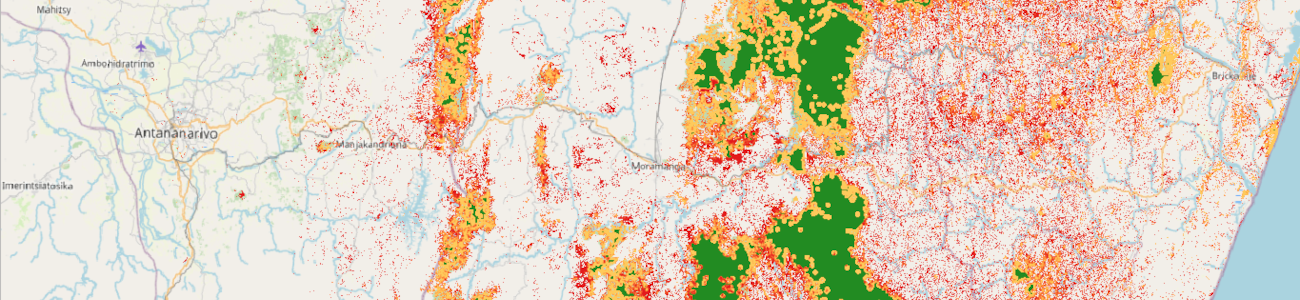
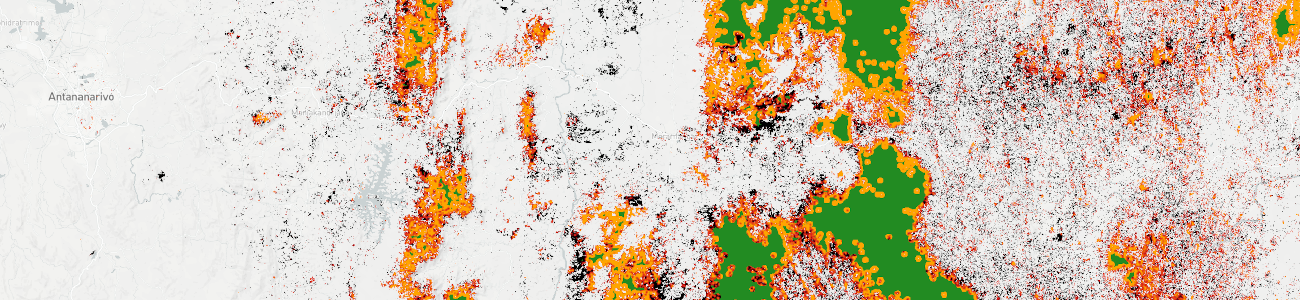
New QGis style and image

diff --git a/Qgis/riskmap_style_qgis.qml b/Qgis/riskmap_style_qgis.qml
@@ -1,0 +1,113 @@
+<!DOCTYPE qgis PUBLIC 'http://mrcc.com/qgis.dtd' 'SYSTEM'>
+<qgis maxScale="0" minScale="1e+08" styleCategories="AllStyleCategories" hasScaleBasedVisibilityFlag="0" version="3.22.7-Białowieża">
+  <flags>
+    <Identifiable>1</Identifiable>
+    <Removable>1</Removable>
+    <Searchable>1</Searchable>
+    <Private>0</Private>
+  </flags>
+  <temporal mode="0" fetchMode="0" enabled="0">
+    <fixedRange>
+      <start></start>
+      <end></end>
+    </fixedRange>
+  </temporal>
+  <customproperties>
+    <Option type="Map">
+      <Option type="QString" value="false" name="WMSBackgroundLayer"/>
+      <Option type="QString" value="false" name="WMSPublishDataSourceUrl"/>
+      <Option type="QString" value="0" name="embeddedWidgets/count"/>
+      <Option type="QString" value="Value" name="identify/format"/>
+    </Option>
+  </customproperties>
+  <pipe-data-defined-properties>
+    <Option type="Map">
+      <Option type="QString" value="" name="name"/>
+      <Option name="properties"/>
+      <Option type="QString" value="collection" name="type"/>
+    </Option>
+  </pipe-data-defined-properties>
+  <pipe>
+    <provider>
+      <resampling zoomedOutResamplingMethod="nearestNeighbour" enabled="false" zoomedInResamplingMethod="nearestNeighbour" maxOversampling="2"/>
+    </provider>
+    <rasterrenderer classificationMax="30" nodataColor="" type="singlebandpseudocolor" band="1" alphaBand="-1" opacity="1" classificationMin="0">
+      <rasterTransparency/>
+      <minMaxOrigin>
+        <limits>None</limits>
+        <extent>WholeRaster</extent>
+        <statAccuracy>Estimated</statAccuracy>
+        <cumulativeCutLower>0.02</cumulativeCutLower>
+        <cumulativeCutUpper>0.98</cumulativeCutUpper>
+        <stdDevFactor>2</stdDevFactor>
+      </minMaxOrigin>
+      <rastershader>
+        <colorrampshader minimumValue="0" maximumValue="30" classificationMode="2" labelPrecision="0" clip="0" colorRampType="EXACT">
+          <colorramp type="gradient" name="[source]">
+            <Option type="Map">
+              <Option type="QString" value="34,139,34,255" name="color1"/>
+              <Option type="QString" value="0,0,0,255" name="color2"/>
+              <Option type="QString" value="0" name="discrete"/>
+              <Option type="QString" value="gradient" name="rampType"/>
+              <Option type="QString" value="0.0333333;255,165,0,255:0.5;215,25,28,255" name="stops"/>
+            </Option>
+            <prop k="color1" v="34,139,34,255"/>
+            <prop k="color2" v="0,0,0,255"/>
+            <prop k="discrete" v="0"/>
+            <prop k="rampType" v="gradient"/>
+            <prop k="stops" v="0.0333333;255,165,0,255:0.5;215,25,28,255"/>
+          </colorramp>
+          <item alpha="255" color="#228b22" label="0" value="0"/>
+          <item alpha="255" color="#ffa500" label="1" value="1"/>
+          <item alpha="255" color="#fc9b02" label="2" value="2"/>
+          <item alpha="255" color="#f99104" label="3" value="3"/>
+          <item alpha="255" color="#f68706" label="4" value="4"/>
+          <item alpha="255" color="#f47d08" label="5" value="5"/>
+          <item alpha="255" color="#f1730a" label="6" value="6"/>
+          <item alpha="255" color="#ee690c" label="7" value="7"/>
+          <item alpha="255" color="#eb5f0e" label="8" value="8"/>
+          <item alpha="255" color="#e85510" label="9" value="9"/>
+          <item alpha="255" color="#e54b12" label="10" value="10"/>
+          <item alpha="255" color="#e24114" label="11" value="11"/>
+          <item alpha="255" color="#e03716" label="12" value="12"/>
+          <item alpha="255" color="#dd2d18" label="13" value="13"/>
+          <item alpha="255" color="#da231a" label="14" value="14"/>
+          <item alpha="255" color="#d7191c" label="15" value="15"/>
+          <item alpha="255" color="#c9171a" label="16" value="16"/>
+          <item alpha="255" color="#ba1618" label="17" value="17"/>
+          <item alpha="255" color="#ac1416" label="18" value="18"/>
+          <item alpha="255" color="#9e1215" label="19" value="19"/>
+          <item alpha="255" color="#8f1113" label="20" value="20"/>
+          <item alpha="255" color="#810f11" label="21" value="21"/>
+          <item alpha="255" color="#730d0f" label="22" value="22"/>
+          <item alpha="255" color="#640c0d" label="23" value="23"/>
+          <item alpha="255" color="#560a0b" label="24" value="24"/>
+          <item alpha="255" color="#480809" label="25" value="25"/>
+          <item alpha="255" color="#390707" label="26" value="26"/>
+          <item alpha="255" color="#2b0506" label="27" value="27"/>
+          <item alpha="255" color="#1d0304" label="28" value="28"/>
+          <item alpha="255" color="#0e0202" label="29" value="29"/>
+          <item alpha="255" color="#000000" label="30" value="30"/>
+          <rampLegendSettings minimumLabel="" useContinuousLegend="1" maximumLabel="" direction="0" prefix="" orientation="2" suffix="">
+            <numericFormat id="basic">
+              <Option type="Map">
+                <Option type="QChar" value="" name="decimal_separator"/>
+                <Option type="int" value="6" name="decimals"/>
+                <Option type="int" value="0" name="rounding_type"/>
+                <Option type="bool" value="false" name="show_plus"/>
+                <Option type="bool" value="true" name="show_thousand_separator"/>
+                <Option type="bool" value="false" name="show_trailing_zeros"/>
+                <Option type="QChar" value="" name="thousand_separator"/>
+              </Option>
+            </numericFormat>
+          </rampLegendSettings>
+        </colorrampshader>
+      </rastershader>
+    </rasterrenderer>
+    <brightnesscontrast gamma="1" brightness="0" contrast="0"/>
+    <huesaturation colorizeOn="0" colorizeStrength="100" colorizeGreen="128" invertColors="0" colorizeBlue="128" saturation="0" colorizeRed="255" grayscaleMode="0"/>
+    <rasterresampler maxOversampling="2"/>
+    <resamplingStage>resamplingFilter</resamplingStage>
+  </pipe>
+  <blendMode>0</blendMode>
+</qgis>
